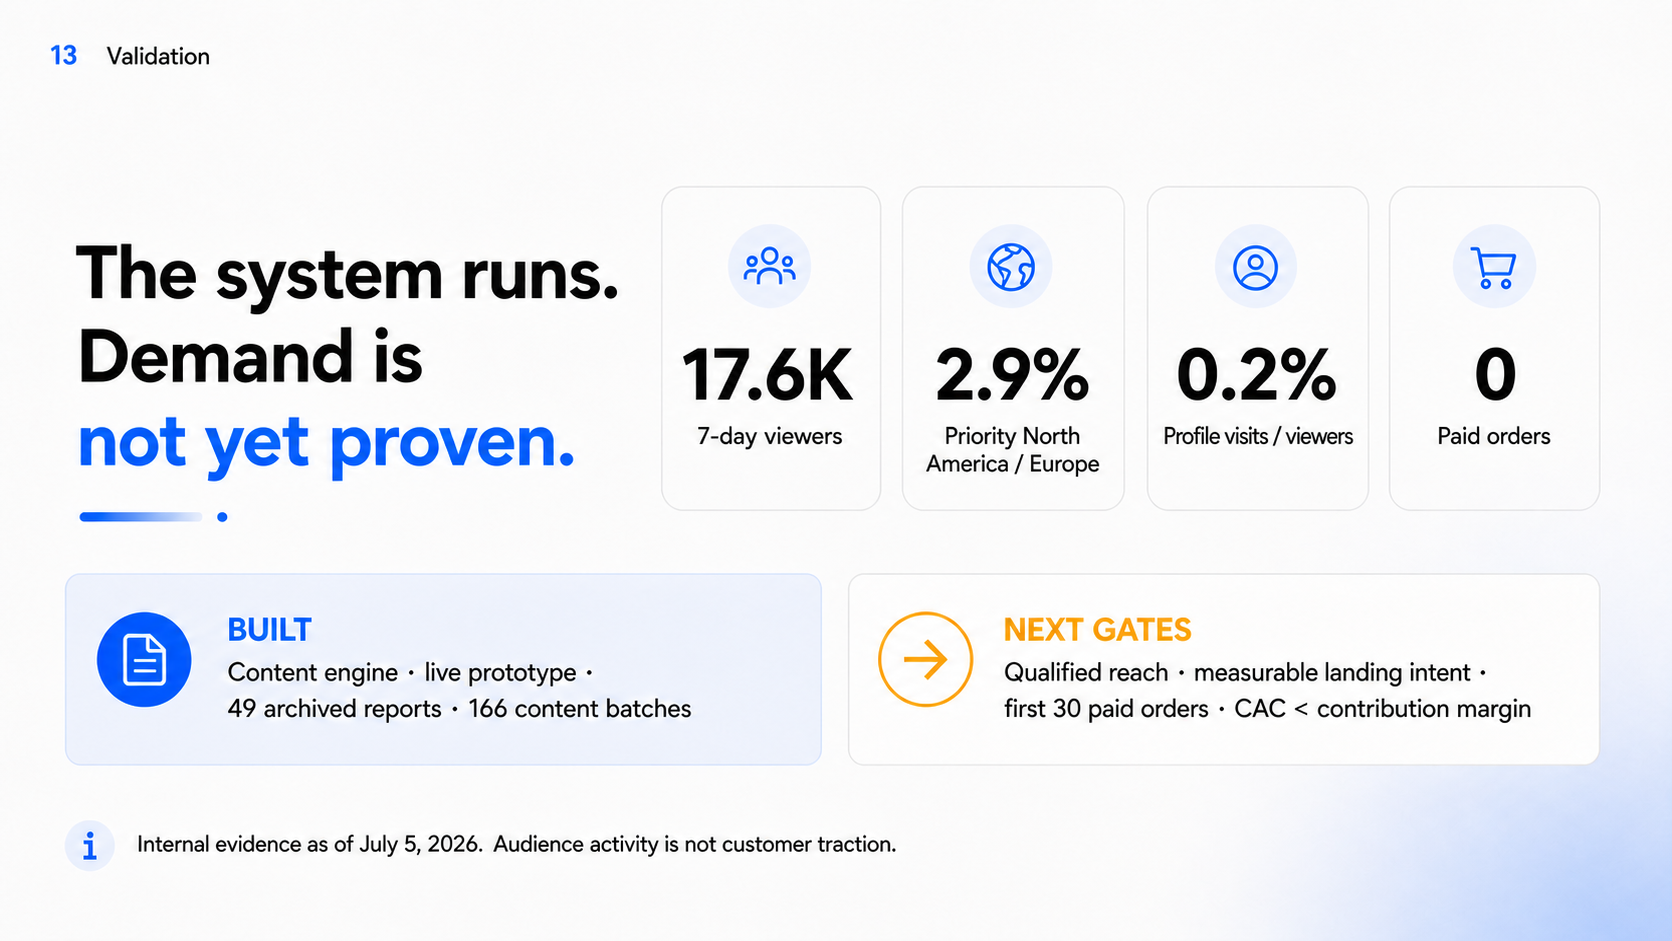
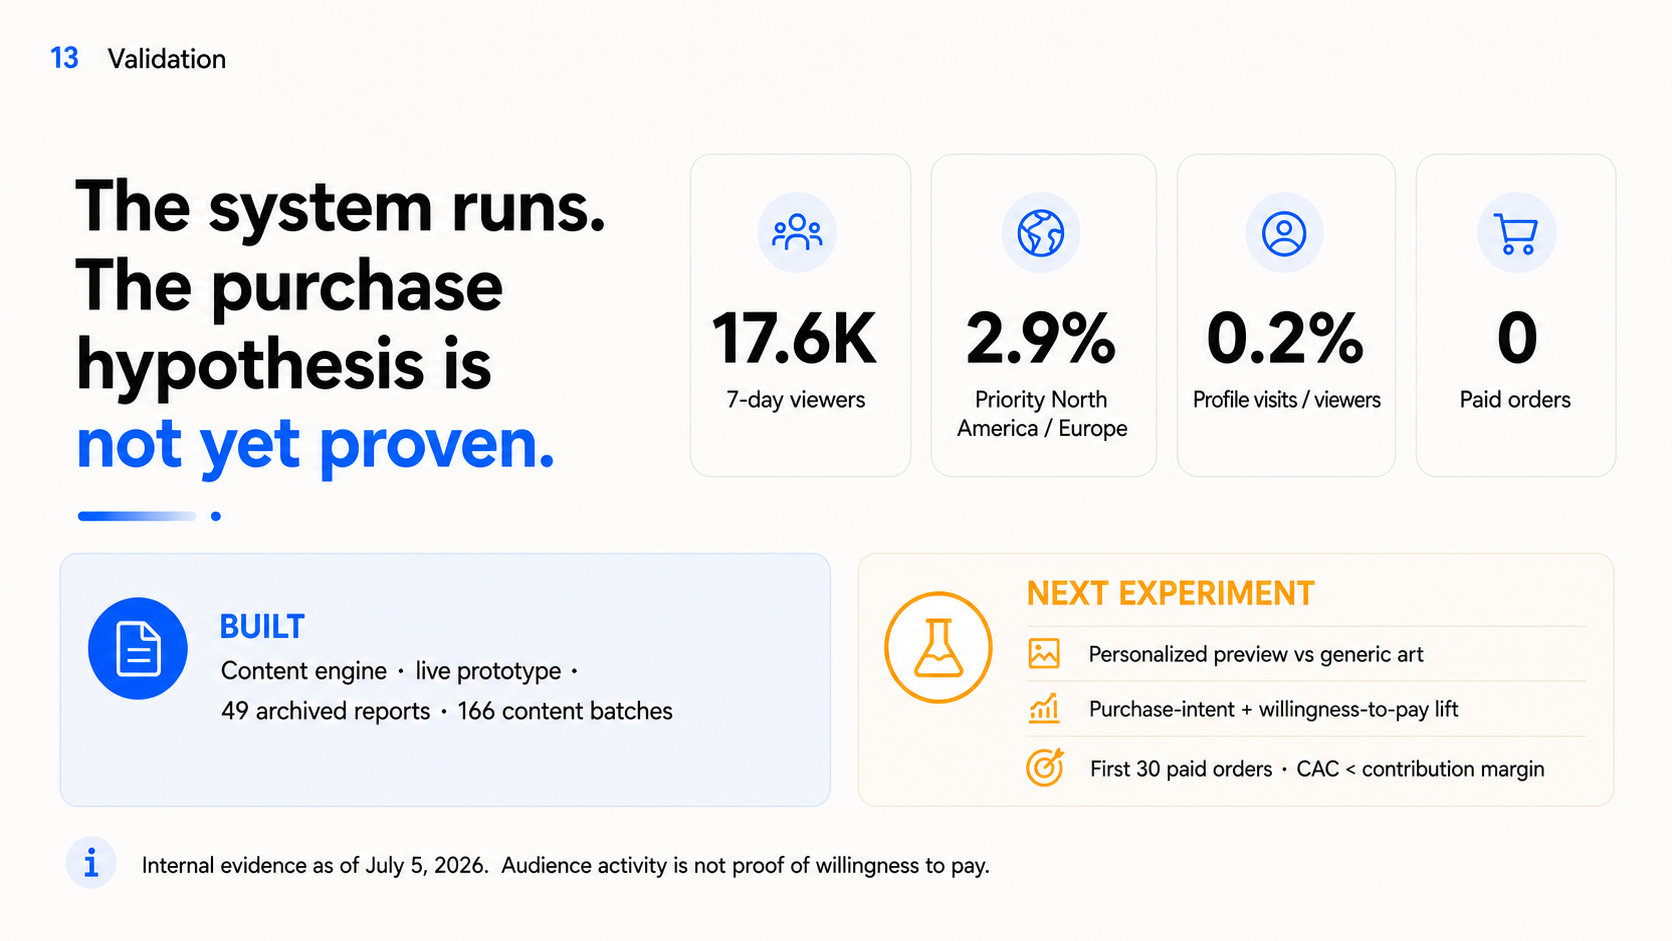
Reframe ELURA around activated personalization desire

diff --git a/elura_pitchdeck/pitchdeck.js b/elura_pitchdeck/pitchdeck.js
@@ -1,18 +1,18 @@
 const slides = [
   ["01-cover.png", "Cover", "ELURA — Reveal yourself through your space."],
-  ["02-problem.png", "Problem", "A home can be fully furnished and still feel unfinished."],
-  ["03-why-it-stays-unfinished.png", "Why It Stays Unfinished", "Identity is easy to feel and hard to translate into space."],
-  ["04-insight.png", "Insight", "More inspiration does not create a decision."],
-  ["05-why-now.png", "Why Now", "Home personalization can now begin with the person, not the catalog."],
+  ["02-problem.png", "Problem", "When people want their space to feel more personal, choosing what belongs is surprisingly difficult."],
+  ["03-activated-desire.png", "Activated Desire", "The problem begins after: I want this space to feel more like me."],
+  ["04-core-hypothesis.png", "Core Hypothesis", "The desire may stay latent until people see their own room transformed."],
+  ["05-why-art-first.png", "Why Art First", "Art is not the only way to personalize a home. It is the clearest place to start."],
   ["06-solution.png", "Solution", "ELURA translates who you are into how your space feels."],
   ["07-core-experience.png", "Core Experience", "It starts with understanding you."],
   ["08-result.png", "Result", "From identity to an installed result."],
   ["09-customer.png", "Customer", "They know what they like. They cannot see what belongs in their room."],
   ["10-acquisition-wedge.png", "Acquisition Wedge", "Meet them while taste is turning into action."],
-  ["11-market-expansion.png", "Market & Expansion", "Wall art is the first transaction. Personalization expands across the home."],
+  ["11-market-expansion.png", "Market & Expansion", "Wall art is the first transaction. Personalization can expand across the home."],
   ["12-business-model.png", "Business Model", "The direction earns trust. The physical product earns revenue."],
-  ["13-validation.png", "Validation", "The system runs. Demand is not yet proven."],
-  ["14-go-to-market.png", "Go to Market", "Focus first. Scale only after the signal is qualified."],
+  ["13-validation.png", "Validation", "The system runs. The purchase hypothesis is not yet proven."],
+  ["14-go-to-market.png", "Go to Market", "Test the difference before scaling the channel."],
   ["15-competition.png", "Competition", "The market forces a trade-off. ELURA removes it."],
   ["16-defensibility.png", "Defensibility", "Today: curation and workflow. Later: outcome data."],
   ["17-roadmap.png", "Roadmap", "From concierge proof to a compounding product."],

diff --git a/elura_pitchdeck/final-16x9/DECK_BRIEF.md b/elura_pitchdeck/final-16x9/DECK_BRIEF.md
@@ -1,4 +1,4 @@
-# ELURA Pitch Deck V3 — final 16:9 image deck
+# ELURA Pitch Deck V4 — final 16:9 image deck
 
 ## Direction
 
@@ -16,25 +16,42 @@
 
 ### 02 — Problem
 
-**A home can be fully furnished—and still feel unfinished.**
+**When people want their space to feel more personal, choosing what belongs is surprisingly difficult.**
 
-### 03 — Why it stays unfinished
+Not everyone wants to change their space. The problem begins when the desire becomes active.
 
-**Identity is easy to feel. Hard to translate into space.**
+### 03 — Activated desire
 
-### 04 — Insight
+**The problem begins after: “I want this space to feel more like me.”**
 
-**More inspiration does not create a decision.**
+Triggers vary: an inspiring space · a room that feels generic · hosting or photographing home · wanting something meaningful · refreshing a familiar room · moving or starting a new chapter.
 
-Flow: endless references → missing translation → one confident direction.
+Decision friction: What fits this room? What feels personal? What will I still like later?
 
-Bottom: **Person + actual room → curated choice.**
+Bottom: **People don’t buy art often. When they do, confidence matters.**
 
-### 05 — Why now
+### 04 — Core hypothesis
 
-**Home personalization can now begin with the person—not the catalog.**
+**The desire may stay latent—until people see their own room transformed.**
 
-Taste is visible · space is understandable · one-of-one is fulfillable.
+Comparison: an acceptable room with generic art (“It’s fine”) versus a personalized in-room preview (“This feels more like me”).
+
+Unproven test: **Does a personalized in-room preview increase purchase intent and willingness to pay versus generic wall art?**
+
+Before/After content and real checkout behavior must answer this.
+
+### 05 — Why art first
+
+**Art is not the only way to personalize a home. It is the clearest place to start.**
+
+- Personal meaning: carries memories, taste, place, music and emotion
+- High impact, low friction: changes a wall without replacing furniture or renovating
+- Room-aware: image, scale, ratio, color, frame and placement can adapt
+- Made to order: tests paid demand without traditional inventory
+
+Bottom: **Art is the first product—not the final scope.**
+
+It makes ELURA's person + space translation visible, shippable and testable.
 
 ### 06 — Solution
 
@@ -59,11 +76,11 @@ Curated direction · actual-room preview · size and frame recommendation · pri
 The initial customer is defined by a decision state rather than age, gender or a single life event:
 
 - saves interiors repeatedly
-- has a visible unfinished wall
+- is actively considering a change
 - wants something personal rather than generic
 - is willing to share room and taste inputs
 
-The need can appear across renters, owners, moves, refreshes and everyday reinvention.
+The conditional need-state can appear across renters, owners, moves, refreshes and everyday reinvention.
 
 Evidence context: `57%` of people who feel more belonging when expressing identity at home often experience enjoyment, versus `51%` globally. IKEA Life at Home Report 2024, 38,000+ people across 39 countries.
 
@@ -85,12 +102,12 @@ Pinterest is the first channel; search, creators and home partnerships are expan
 
 ### 11 — Market and expansion
 
-**Wall art is the first transaction. Personalization expands across the home.**
+**Wall art is the first transaction. Personalization can expand across the home.**
 
 - Online wall-art channel: `$19.6B` in 2025 → `$33.6B` in 2033, `7.1%` CAGR
 - Illustrative venture-scale math: `500K annual core orders × $200 AOV = $100M GMV`
 - `$100M` equals approximately `0.3%` of the projected 2033 online category
-- Expansion path: first piece → companion set → more rooms → gifts and refreshes
+- Expansion hypothesis: first piece → companion set → more rooms → gifts and refreshes
 
 The scale equation is an illustration, not a forecast. The `$200` AOV is the midpoint of ELURA's proposed `$150–250` core order.
 
@@ -106,7 +123,7 @@ Bottom: **Pricing is a hypothesis until the first 30 paid orders.**
 
 ### 13 — Validation
 
-**The system runs. Demand is not yet proven.**
+**The system runs. The purchase hypothesis is not yet proven.**
 
 - `17.6K` latest measured 7-day viewers
 - `2.9%` priority North America / Europe audience
@@ -115,18 +132,18 @@ Bottom: **Pricing is a hypothesis until the first 30 paid orders.**
 
 Built: content engine · live product prototype · 49 archived reports · 166 content batches.
 
-Next gates: qualified reach · landing intent · 30 paid orders · CAC < contribution margin.
+Next experiment: personalized preview versus generic art · purchase-intent and willingness-to-pay lift · first 30 paid orders · CAC < contribution margin.
 
 ### 14 — Go to market
 
-**Focus first. Scale only after the signal is qualified.**
+**Test the difference before scaling the channel.**
 
-1. Qualify audience
-2. Prove room-application intent
-3. Prove willingness to pay
-4. Amplify only after unit economics
+1. Recruit people already considering a room change
+2. Show generic art and a personalized in-room preview
+3. Measure room upload, checkout intent and willingness to pay
+4. Prove 30 paid orders and CAC below contribution margin
 
-Bottom: **Every installed home becomes the next proof asset.**
+Bottom: **Scale only if the personalized view changes behavior.**
 
 ### 15 — Competition
 

diff --git a/elura_pitchdeck/AUDIT_V2.md b/elura_pitchdeck/AUDIT_V2.md
@@ -1,5 +1,18 @@
 # ELURA Pitch Deck V2 — full audit
 
+## V4 revision — activated desire and why art first
+
+The previous problem story still implied that a blank or undecorated wall was a broadly felt daily pain. That overstated the need and blurred the actual commercial hypothesis.
+
+V4 makes four corrections:
+
+- The problem is conditional: it begins only after someone wants the space to feel more personal.
+- The friction is choosing what fits the room, feels personal and will still feel right later.
+- The core test is whether seeing a personalized version of the actual room increases purchase intent and willingness to pay versus generic wall art.
+- Art is positioned as ELURA's first testable product—not the only way to personalize a home and not the company's final scope.
+
+Validation and GTM now center on a before/after comparison, willingness-to-pay lift and real paid orders rather than treating content activity as demand.
+
 ## V3 revision — July 13, 2026
 
 The first V2 correction overfit the customer to home-personalization trigger events, especially moving. It also made the market slide defensive: accurate category disclaimers replaced an actual commercial argument.

diff --git a/elura_pitchdeck/final-16x9/README.md b/elura_pitchdeck/final-16x9/README.md
@@ -1,14 +1,14 @@
-# ELURA Pitch Deck V3 — 19 slides
+# ELURA Pitch Deck V4 — 19 slides
 
-![ELURA Pitch Deck V2 contact sheet](/Users/shin/elura/biz/pitchdeck/final-16x9/contact-sheet.png)
+![ELURA Pitch Deck V4 contact sheet](/Users/shin/elura/biz/pitchdeck/final-16x9/contact-sheet.png)
 
 ## Slides
 
 1. Cover
 2. Problem
-3. Why It Stays Unfinished
-4. Insight
-5. Why Now
+3. Activated Desire
+4. Core Hypothesis
+5. Why Art First
 6. Solution
 7. Core Experience
 8. Result
